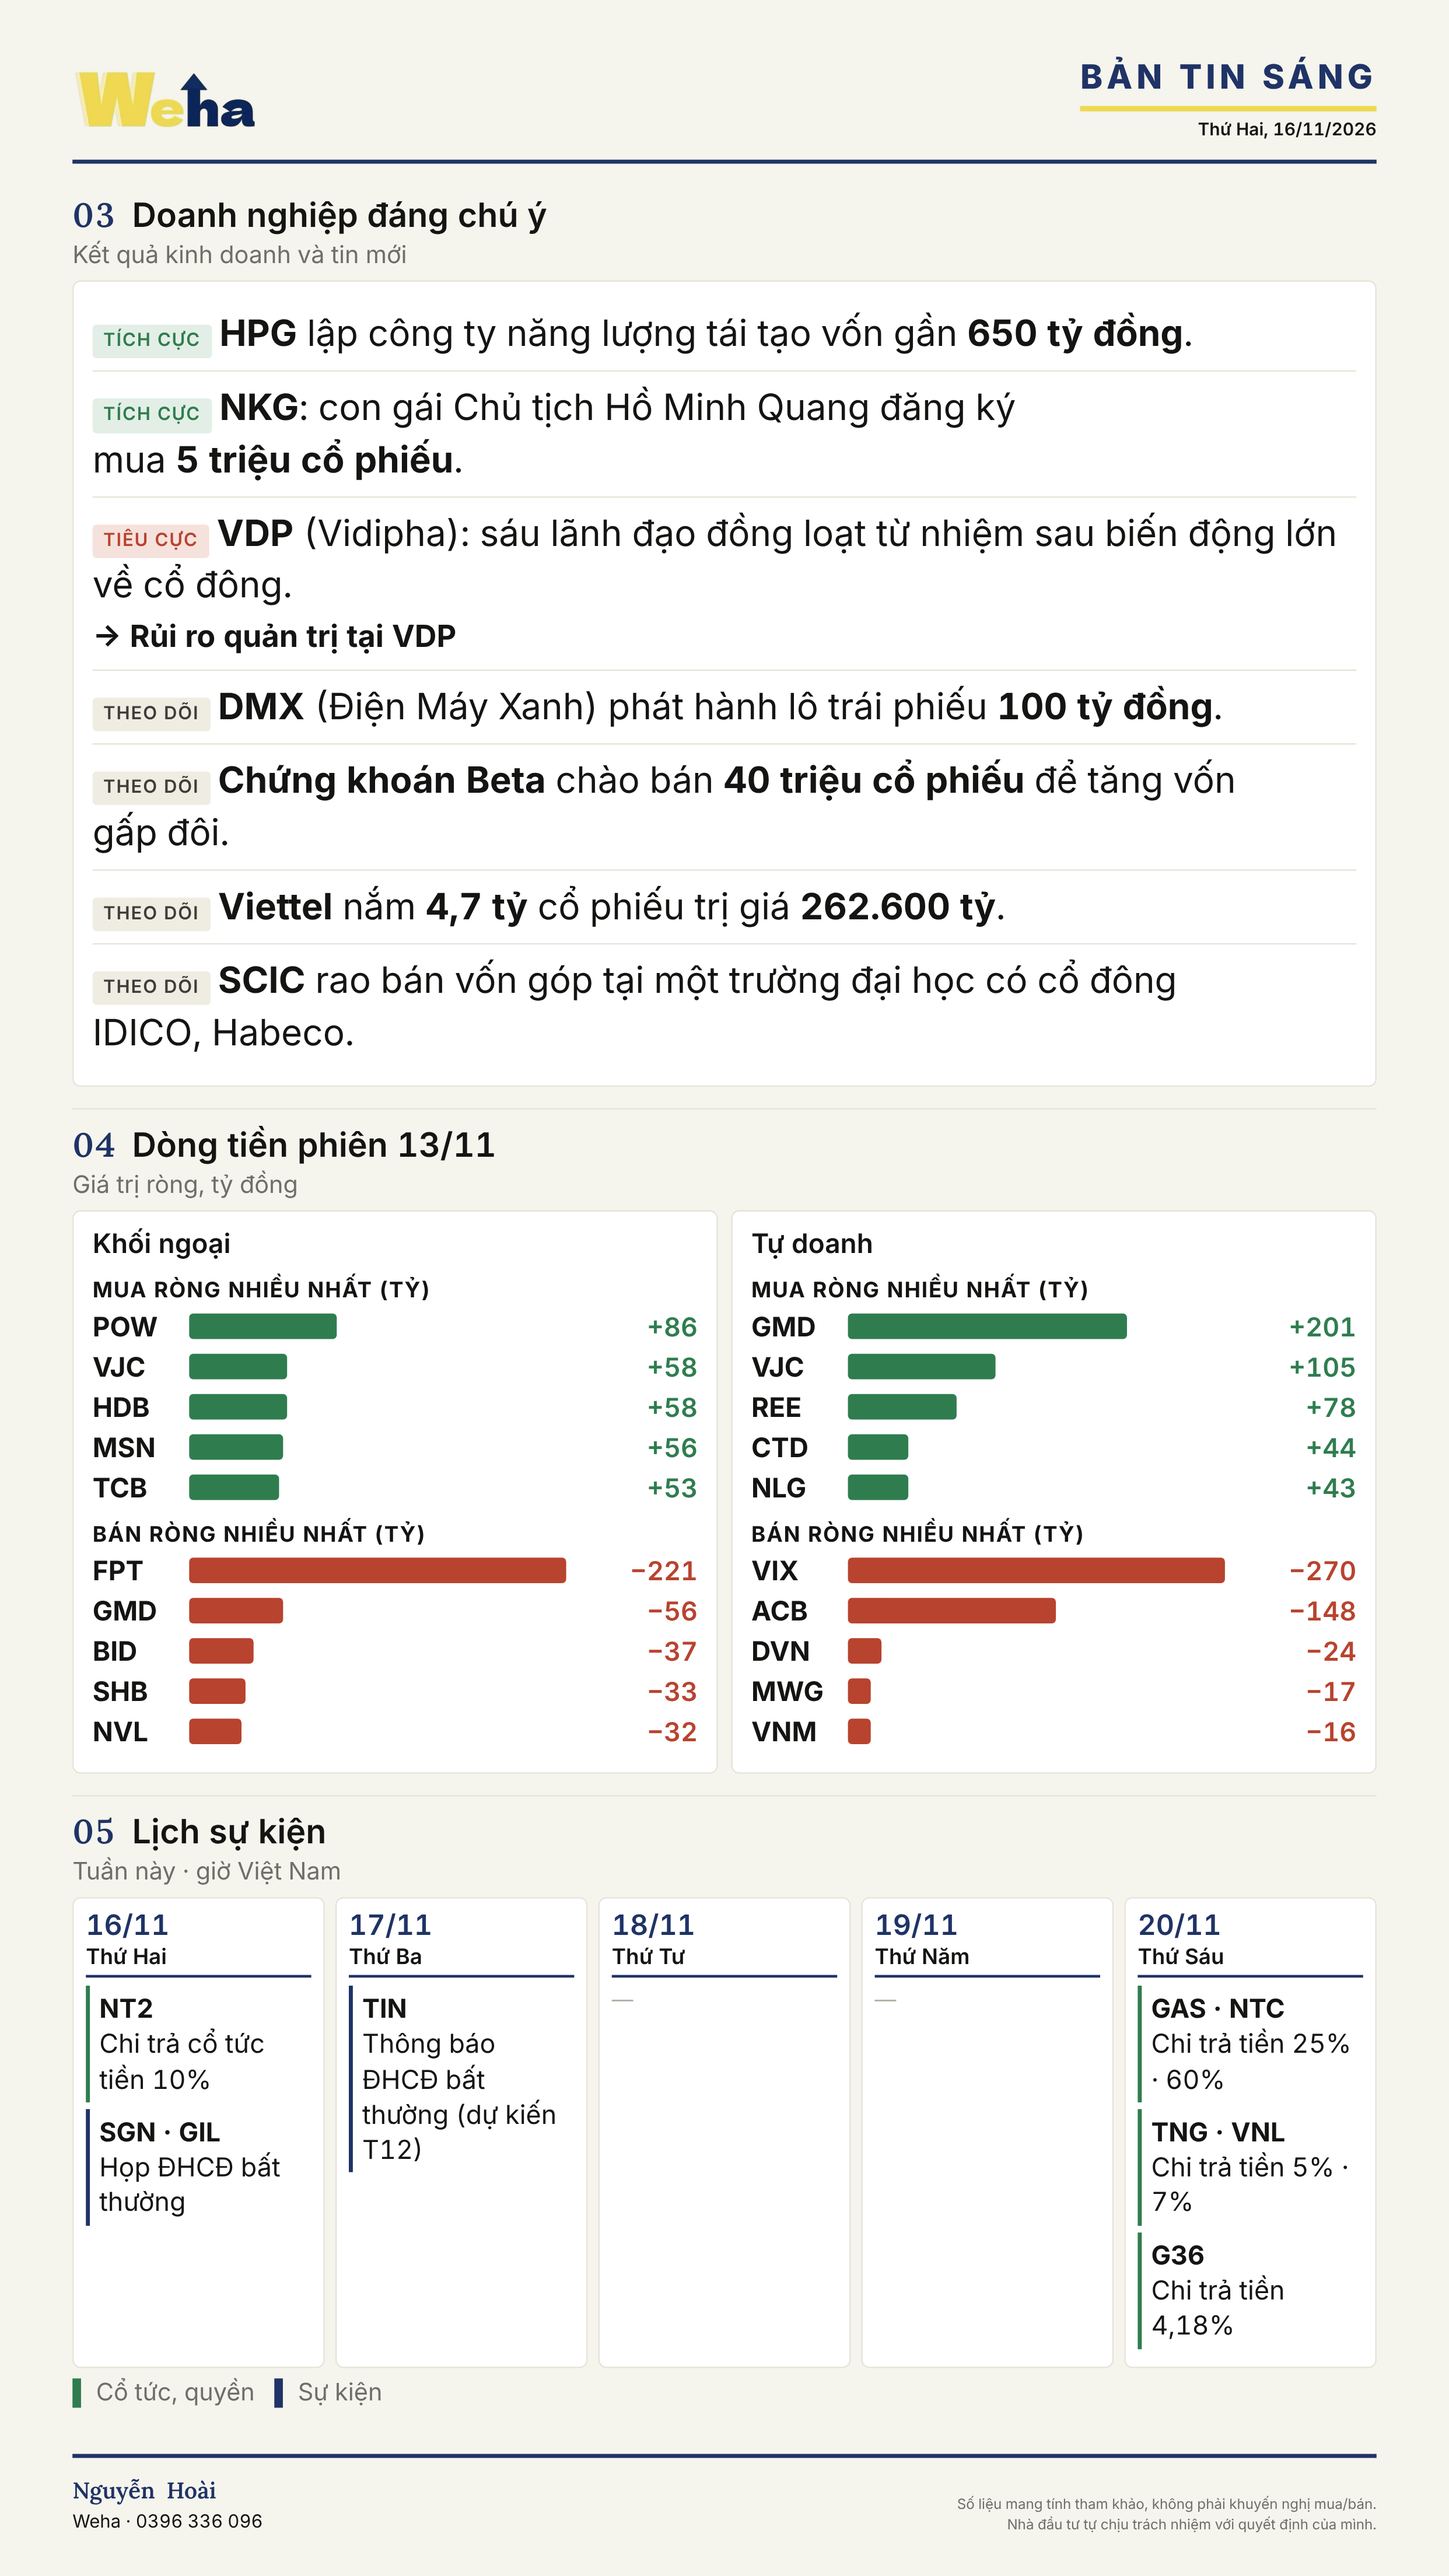
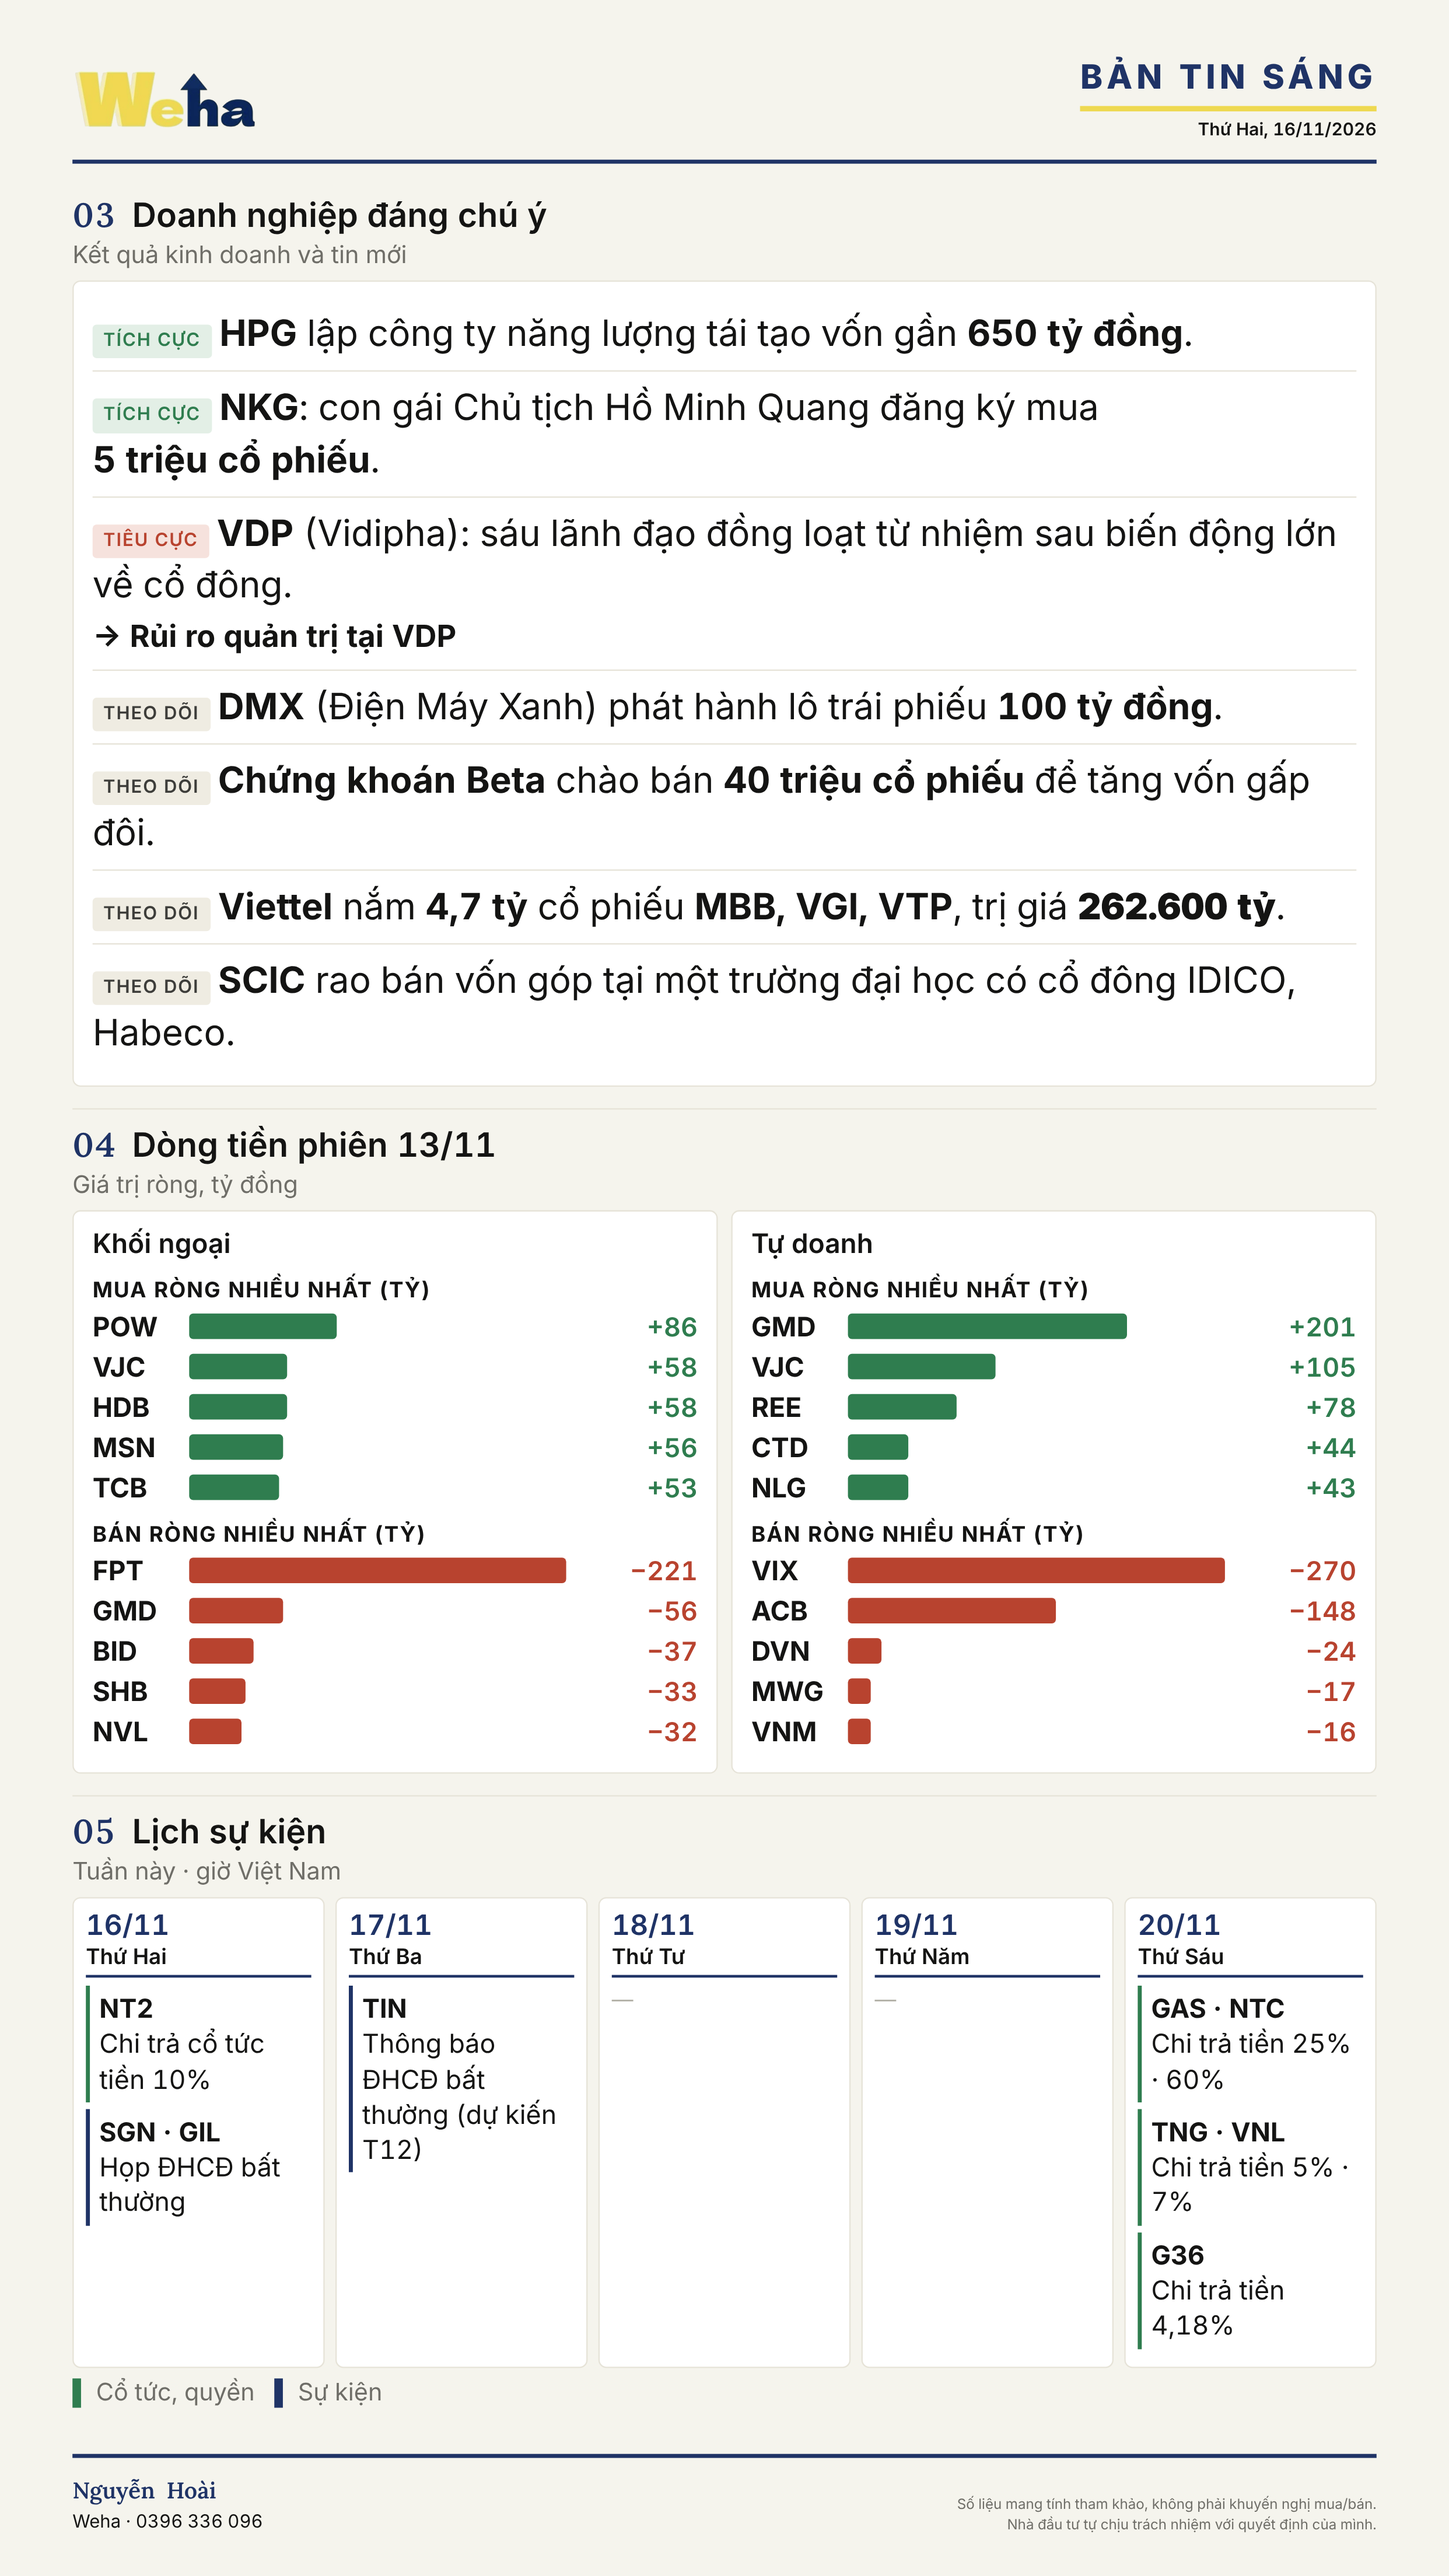
Bản tin sáng: thêm mã vào tin Viettel, bỏ xuống dòng sớm
Claude-Session: https://claude.ai/code/session_01PnGQZ9zkvgVJ88mD6d3FrE

diff --git a/scripts/weha_sang.py b/scripts/weha_sang.py
@@ -56,7 +56,7 @@ CSS_M = """
 .page h1{font-size:38px;font-weight:600;line-height:1.25;letter-spacing:-.01em;word-spacing:-.04em;color:#141413} .page h1 b,.page h1 mark{font-weight:800;color:#141413;background:none;padding:0;box-shadow:inset 0 -.46em 0 #EED951} .page .lede{font-size:18.5px;color:#3D3C38;font-weight:500;white-space:nowrap}
 .page h2{font-size:25px;margin:16px 0 4px;padding-top:10px} .page .sub{font-size:16px;margin:0 0 8px}
 .page .lab{font-size:16px} .mini .v{font-size:30px} .page .chg{font-size:16.5px}
-.page .list p{font-size:27px;line-height:1.42;padding:8px 0;text-align:left;text-wrap:pretty;hyphens:none;overflow-wrap:normal} .page .tag{font-size:13.5px;padding:3px 8px}
+.page .list p{font-size:27px;line-height:1.42;padding:8px 0;text-align:left;text-wrap:wrap;hyphens:none;overflow-wrap:normal} .page .tag{font-size:13.5px;padding:3px 8px}
 .page .card h3{font-size:20px;margin-bottom:6px}
 .ev{font-size:18.5px} .ev th{font-size:15px} .ev td{padding:10px 6px} .ev td:first-child{white-space:nowrap;color:#6F6E68}
 .ev td:nth-child(2){font-weight:600;white-space:nowrap}
